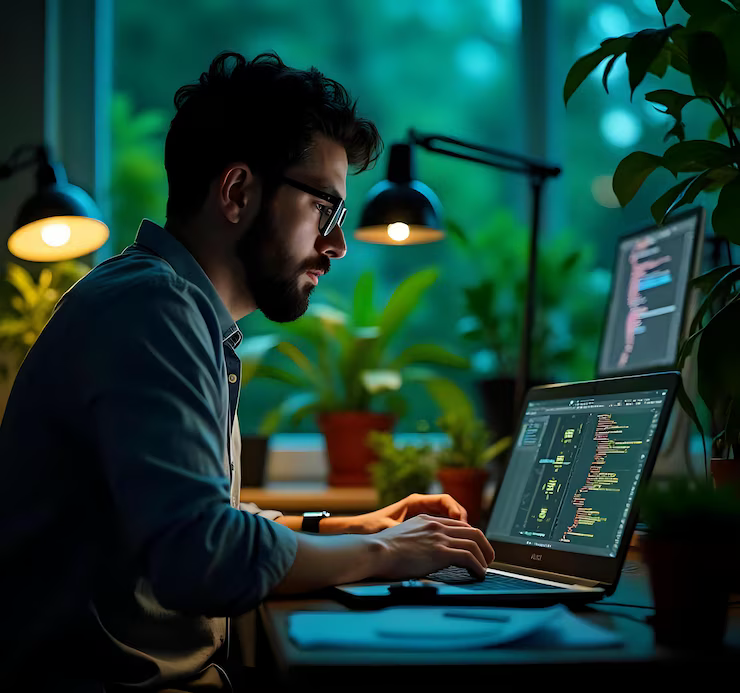
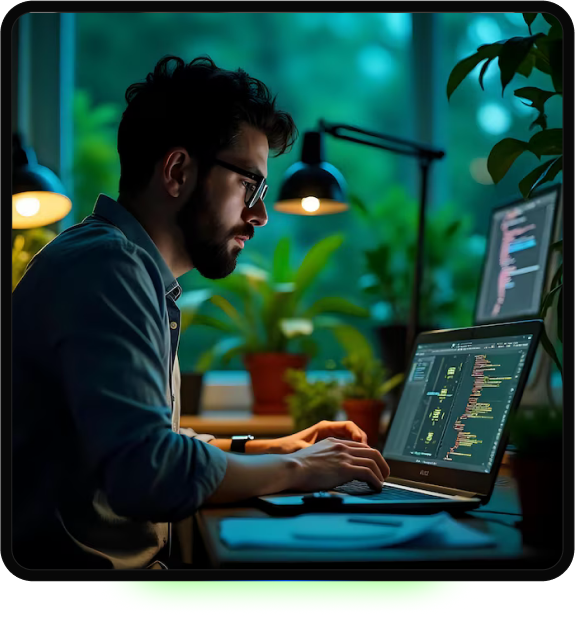
changes

diff --git a/src/components/OurServices/OurServices.css b/src/components/OurServices/OurServices.css
@@ -10,19 +10,22 @@
 }
 
 .ourservices__left {
-  flex: 1;
+   flex: none;
+  width: 50%;
   position: sticky;
   top: 5rem;
   align-self: flex-start;
+   overflow: visible;
 }
 
 .ourservices__left img {
-  width: 100%;
-  max-width: 100%;
-  height: 500px;
+  width: 130%;
+  height: 610px;
   object-fit: cover;
   border-radius: 30px;
   box-shadow: 0 0 20px rgba(0, 0, 0, 0.5);
+    /* margin-left: -10%;  */
+    
 }
 
 .ourservices__right {

diff --git a/src/components/Work/Work.css b/src/components/Work/Work.css
@@ -28,8 +28,9 @@
 }
 
 .work__right img {
-  width: 110%;
+ 
   /* max-width: 460px; */
+   width: 110%;
   height: 610px;
   /* border-radius: 20px; */
   object-fit: cover;
